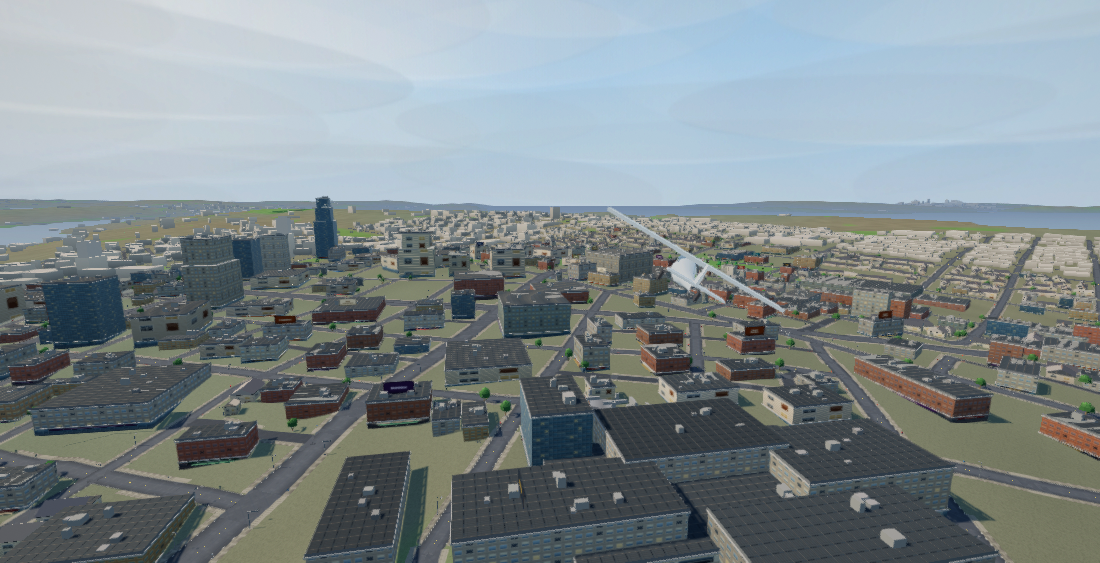
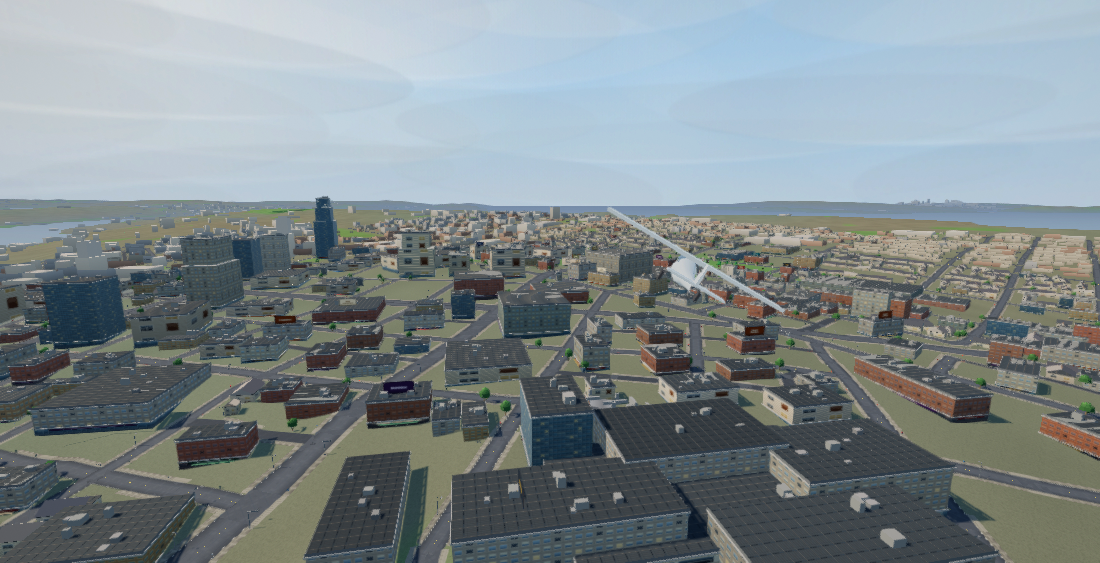
Auto v59: the closest buildings are buildings again
v58's flying LOD boxed the entire near ring, which made the CLOSEST
buildings the crudest thing on screen -- and the one flat beige made the
massing read as a city of white blocks. Two fixes:

- The 3x3 chunks directly under the player stay full detail even in the
  flying LOD. Three detailed chunks per row crossed is a build rate the
  streamer holds at 400 km/h (measured: backlog peaks at 15 against 19
  all-detail, and the chunk under the plane never misses its wanted LOD);
  it was the full 5x5 that could not keep up.
- Massing boxes are tinted by building STYLE -- warm houses, red-brown
  brick, slate industrial -- with a darker roof slab. From the air, wall
  tone and a roof line are most of what says "building".

verify.mjs 0 exceptions.

Claude-Session: https://claude.ai/code/session_01V56RnrzLsQEVAyY6wa5w7B

diff --git a/apps/auto/src/world.js b/apps/auto/src/world.js
@@ -547,7 +547,12 @@ export class World {
         const key = this.city.chunkKey(cx, cz);
         want.add(key);
         const have = this.chunks.get(key);
-        const lod = (r <= NEAR_R && !this.flyLod) ? 1 : 0;
+        // The 3x3 directly under the player stays FULL DETAIL even in the
+        // flying LOD: v58 boxed the whole near ring and the closest buildings
+        // became the crudest thing on screen. Three detailed chunks per row
+        // crossed is a build rate the streamer holds at 400 km/h -- it was
+        // the full 5x5 it could not.
+        const lod = (r <= NEAR_R && (!this.flyLod || r <= 1)) ? 1 : 0;
         if (have && have.lod === lod) continue;
         if (!have) this.chunks.set(key, { key, cx, cz, lod: -1, group: null, dist: dx * dx + dz * dz });
         const c = this.chunks.get(key);
@@ -719,12 +724,24 @@ export class World {
       // detail arriving, not a city appearing. ~12 triangles a building, one
       // draw a chunk.
       since = 0;
+      // Tinted by STYLE with a darker roof slab, because one pale beige for
+      // every box read as a city of white blocks -- from the air, wall tone
+      // and a roof line are most of what says "building".
+      const MASS_TINT = {
+        house: [0.66, 0.61, 0.54], brick: [0.55, 0.42, 0.36],
+        lowrise: [0.58, 0.58, 0.60], midrise: [0.56, 0.57, 0.60],
+        industrial: [0.50, 0.52, 0.55], campus: [0.58, 0.55, 0.50],
+        tower: [0.52, 0.55, 0.60],
+      };
       for (const bi of ch.buildings) {
         const bd = city.buildings[bi];
         if (bd.h >= 16 || bd.w * bd.d >= 1400) continue;   // skyline draws these
-        const t = 0.5 + hash2(bd.seed, 3) * 0.18;
-        flat.box(bd.x, bd.y + bd.h / 2, bd.z, bd.w, bd.h, bd.d, bd.rot,
-          [0.60 * t + 0.28, 0.58 * t + 0.27, 0.55 * t + 0.26], { ao: 0.35 });
+        const base = MASS_TINT[bd.style] || MASS_TINT.lowrise;
+        const t = 0.86 + hash2(bd.seed, 3) * 0.28;
+        const wall = [base[0] * t, base[1] * t, base[2] * t];
+        flat.box(bd.x, bd.y + bd.h / 2, bd.z, bd.w, bd.h, bd.d, bd.rot, wall, { ao: 0.35, top: false });
+        flat.box(bd.x, bd.y + bd.h + 0.12, bd.z, bd.w * 0.96, 0.24, bd.d * 0.96, bd.rot,
+          [wall[0] * 0.45, wall[1] * 0.45, wall[2] * 0.47]);
         if (++since >= 40) { since = 0; yield; }
       }
       yield;

diff --git a/apps/auto/sw.js b/apps/auto/sw.js
@@ -23,7 +23,7 @@
 // launch to prove it hadn't changed, and PINNED is wrong too: these URLs carry
 // no version, so a bump has to be able to replace them. The map only changes
 // when tools/ re-imports it, and that comes with a bump.
-const CACHE = 'auto-v58';
+const CACHE = 'auto-v59';
 const PINNED = ['vendor/three-0.160.0.module.js'];
 const isMapData = (url) => new URL(url).pathname.includes('/apps/auto/data/');
 const SHELL = ['./', './index.html', './manifest.webmanifest',

diff --git a/apps/auto/index.html b/apps/auto/index.html
@@ -414,7 +414,7 @@
     <div id="loadTrack"><div id="loadBar"></div></div>
     <div id="loadMsg">Starting up</div>
     <!-- Bumped once per change, in step with CACHE in sw.js. See CLAUDE.md. -->
-    <div id="build">v58</div>
+    <div id="build">v59</div>
     <div id="attrib">Map data © OpenStreetMap contributors (ODbL) · elevation USGS 3DEP</div>
   </div>
 
